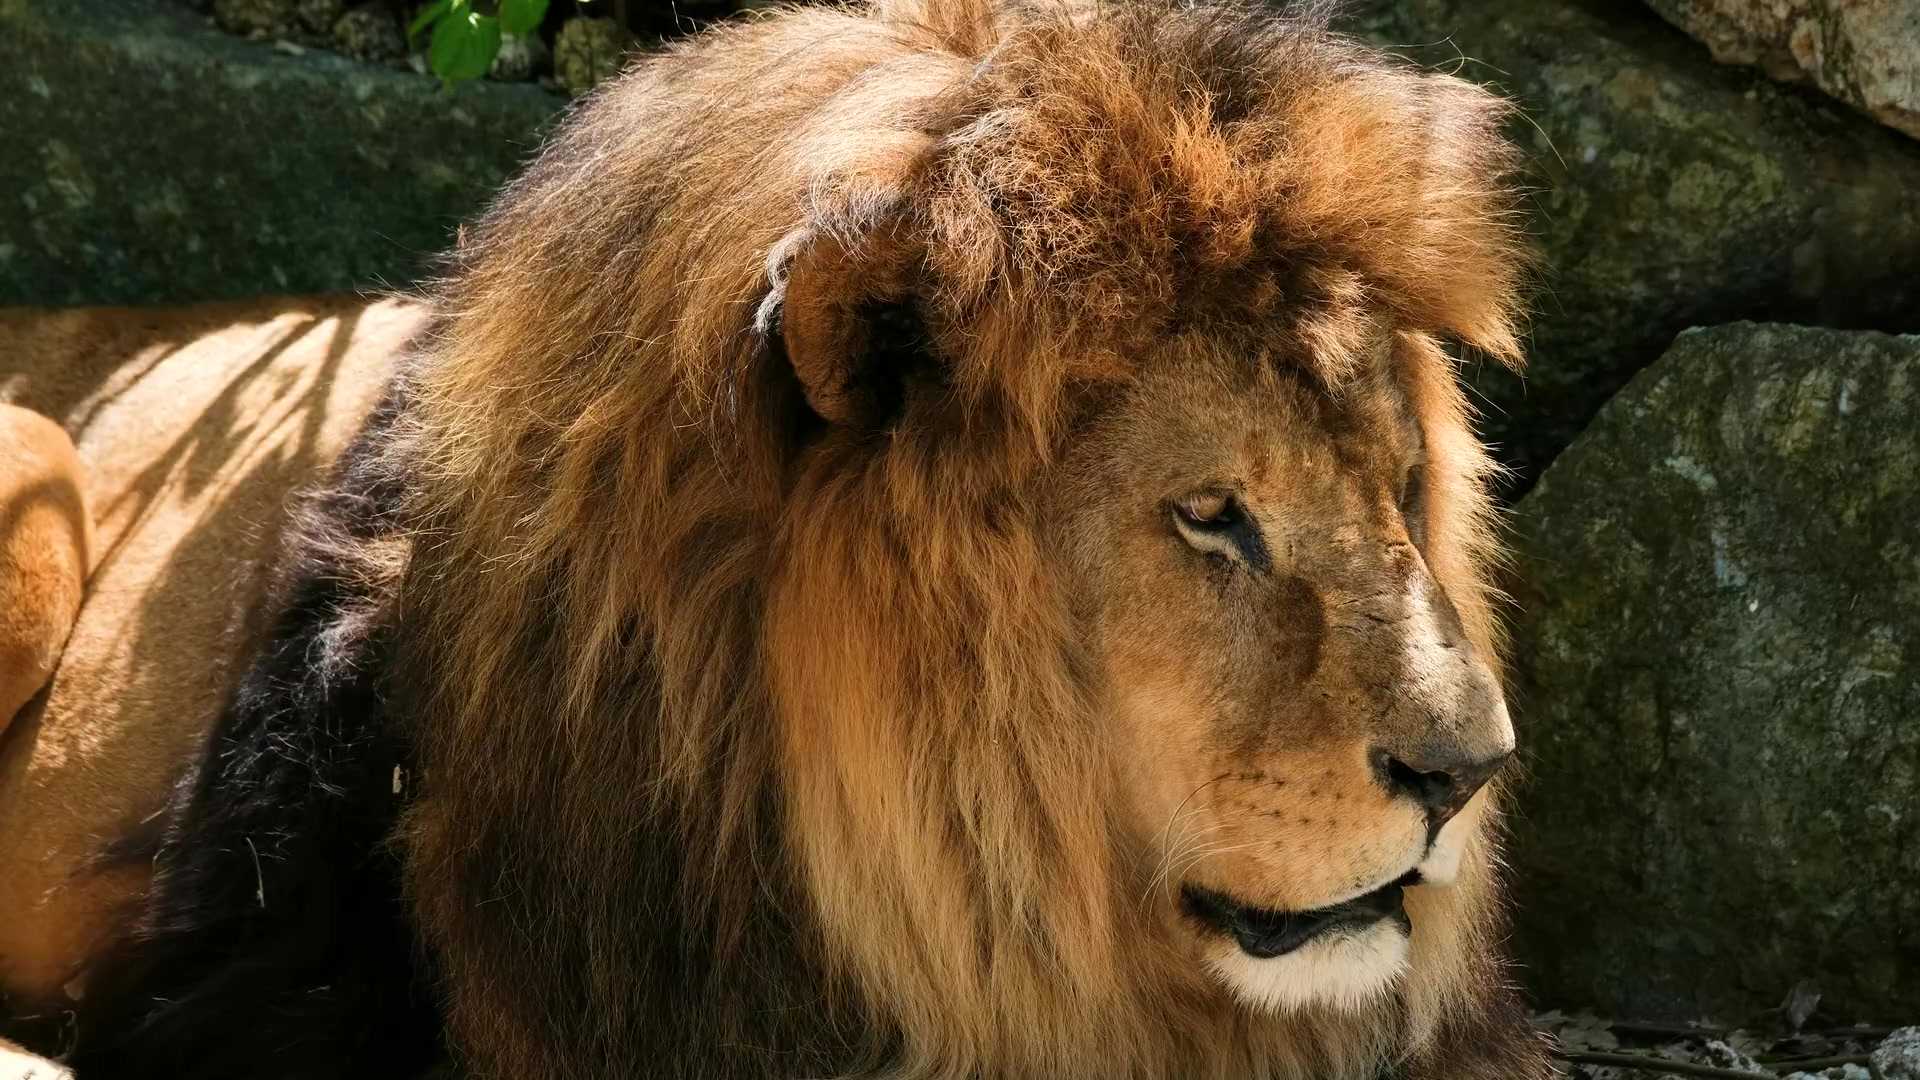
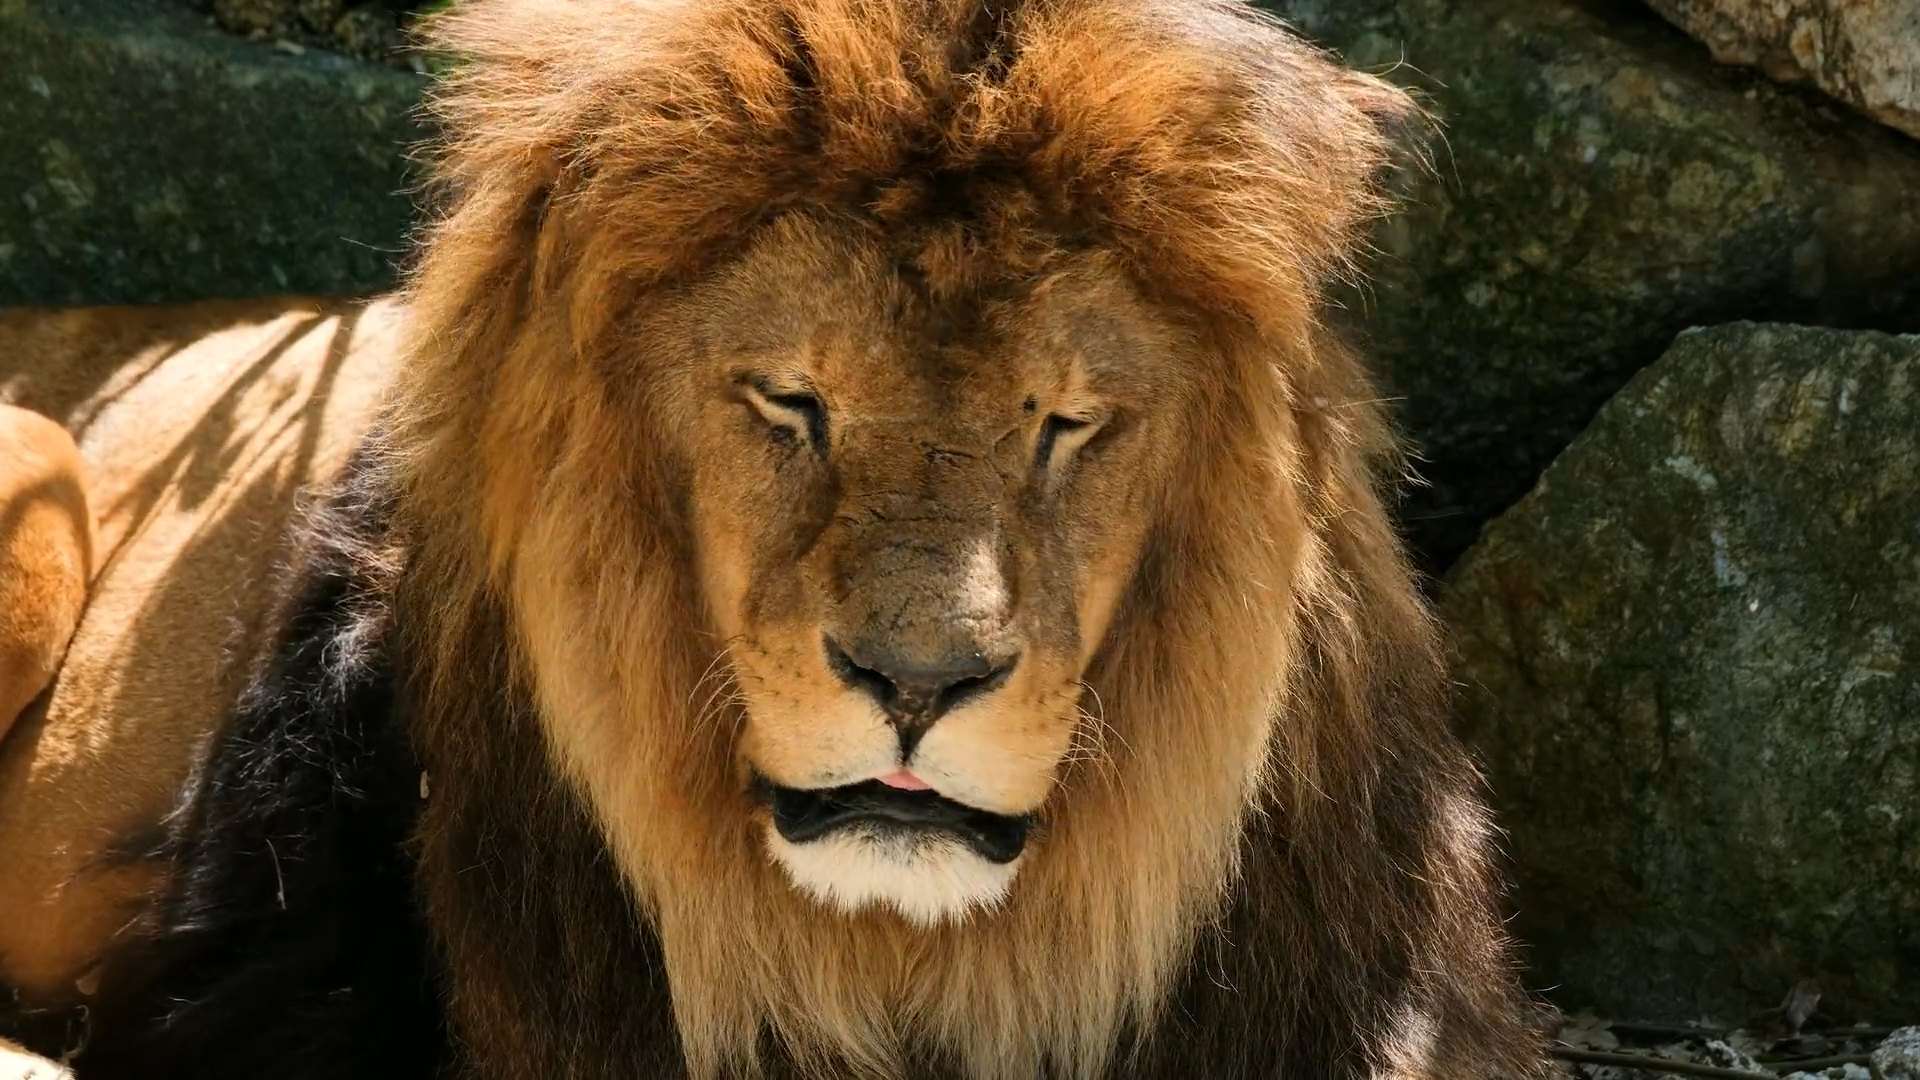
Home hero: lion in frame, phone layout no longer covers the film
- Lion clip mirrored and started at 3s (poster is that frame), so his face
  sits right of the headline and his chin stays in shot on short screens
- Per-clip crops (pos / posM) keep each subject in view on portrait screens
- Phones and upright tablets: film fills the top and fades into the night,
  copy sits beneath it; film controls move under the header

diff --git a/src/lib/data/home.ts b/src/lib/data/home.ts
@@ -44,6 +44,12 @@ export type ReelClip = {
   hold?: number;
   /** A colour grade (a CSS filter) for a clip that reads flat. */
   grade?: string;
+  /** Where a landscape screen crops the frame (CSS object-position). */
+  pos?: string;
+  /** Where a portrait screen (a phone, an upright tablet) crops the frame. */
+  posM?: string;
+  /** Mirror the clip, to turn its subject away from the headline. */
+  flip?: boolean;
 };
 
 /**
@@ -65,6 +71,15 @@ export const reel: (ReelClip & { fallback?: ReelClip })[] = [
     alt: 'A male lion with a full golden mane turning his head in the sun',
     video: '/video/home/reel-safari-lion.mp4',
     img: '/images/home/reel-safari-lion.jpg',
+    // He turns from profile to face the camera, his face settling left of
+    // centre, under the headline. Mirrored and started at 3s (the poster is
+    // that frame), he looks out from the right, clear of the words, and the
+    // phone crop holds his whole face (8 Nov). The crop is in the source's
+    // own coordinates, before the mirror: 32% is 68% on screen.
+    start: 3,
+    flip: true,
+    pos: '50% 45%',
+    posM: '32% 50%',
     fallback: {
       place: 'On safari',
       alt: 'Two giraffes on golden grassland in the afternoon sun, mountains beyond',
@@ -77,6 +92,7 @@ export const reel: (ReelClip & { fallback?: ReelClip })[] = [
     alt: 'A red mountain train crossing an alpine meadow above the lakes of the Bernese Oberland',
     video: '/video/home/reel-swiss-rail.mp4',
     img: '/images/home/reel-swiss-rail.jpg',
+    posM: '68% 50%',
     fallback: {
       place: 'Switzerland, by rail',
       alt: 'A red train curving along an alpine lake beneath low cloud in the Swiss Alps',
@@ -90,6 +106,7 @@ export const reel: (ReelClip & { fallback?: ReelClip })[] = [
     // Pexels 12315324 (Boris Ivas), from 0:14; colour lifted in the cut.
     video: '/video/home/reel-amalfi-coast.mp4',
     img: '/images/home/reel-amalfi-coast.jpg',
+    posM: '86% 50%',
     fallback: {
       place: 'Amalfi Coast, Italy',
       alt: 'A sailing boat at anchor off the Amalfi Coast, a cliffside town and the coast fading into haze behind',
@@ -103,6 +120,7 @@ export const reel: (ReelClip & { fallback?: ReelClip })[] = [
     // Pexels 16114872 (8 Nov), slowed a touch to the reel's calm pace.
     video: '/video/home/reel-hvar-harbour.mp4',
     img: '/images/home/reel-hvar-harbour.jpg',
+    posM: '41% 50%',
     fallback: {
       place: 'The Adriatic',
       alt: 'Sveti Stefan, a walled island village on the Adriatic coast of Montenegro, a catamaran at anchor',

diff --git a/src/components/home/home-fixes.css b/src/components/home/home-fixes.css
@@ -60,6 +60,67 @@
     linear-gradient(180deg, rgb(8 20 28 / 0.45) 0%, rgb(8 20 28 / 0) 22%);
 }
 
+/* Each clip crops on its own subject (the lion's face sits right of centre and
+   low in the frame), with a second crop for an upright screen (8 Nov). */
+.hc .hc-hero .hv .fill {
+  object-position: var(--pos, center);
+}
+.hc .hc-hero .hv.flip .fill {
+  transform: scaleX(-1);
+}
+@media (max-aspect-ratio: 1/1) {
+  .hc .hc-hero .hv .fill {
+    object-position: var(--pos-m, var(--pos, center));
+  }
+}
+
+/* On a phone or an upright tablet the words no longer sit on the film's
+   subject: the film fills the top of the screen and fades into the night, and
+   the copy sits beneath it, its headline just overlapping the fade (8 Nov).
+   The copy ends 5.25rem up, clear of "Connect with our team"; the film ends
+   about 2.5rem below the copy's top (it is ~20rem tall on a phone, where the
+   buttons stack, and ~16rem on a tablet). */
+@media (max-width: 900px) and (orientation: portrait) {
+  .hc .hc-hero {
+    --film-end: calc(100% - 19rem);
+  }
+  .hc .hc-hero .hv {
+    inset: 0 0 auto;
+    height: max(45%, var(--film-end));
+  }
+  .hc .hc-hero .shade {
+    background: linear-gradient(
+      180deg,
+      rgb(8 20 28 / 0.5) 0%,
+      rgb(8 20 28 / 0) 7.5rem,
+      rgb(8 20 28 / 0) calc(max(45%, var(--film-end)) - 6rem),
+      var(--night) max(45%, var(--film-end))
+    );
+  }
+  .hc .hc-hero .copy.left {
+    inset: auto var(--gut) 5.25rem;
+    width: auto;
+  }
+  /* The film's controls move up under the header, clear of the buttons. */
+  .hc .hc-hero .vctl {
+    bottom: auto;
+    top: calc(var(--nav-h) + 0.75rem);
+  }
+}
+@media (max-width: 600px) {
+  .hc .hc-hero {
+    --film-end: calc(100% - 22rem);
+  }
+  .hc .hc-hero .copy.left h1 {
+    font-size: clamp(2.5rem, 11vw, 2.875rem);
+    margin-bottom: 1rem;
+  }
+  .hc .hc-hero .copy.left .standfirst {
+    font-size: 1.0625rem;
+    margin-bottom: 1.5rem;
+  }
+}
+
 /* -- 02 Philosophy: centered between two short blue rules ----------------- */
 /* One full screen under the solid header, the statement at its centre. */
 .hc .hc-intro {

diff --git a/src/components/home/HomeHero.tsx b/src/components/home/HomeHero.tsx
@@ -1,6 +1,6 @@
 'use client';
 
-import { useEffect, useRef, useState } from 'react';
+import { useEffect, useRef, useState, type CSSProperties } from 'react';
 import Image from 'next/image';
 import Link from 'next/link';
 import { useReducedMotion } from 'motion/react';
@@ -80,7 +80,14 @@ export function HomeHero({ reel }: { reel: ReelClip[] }) {
       {reel.map((clip, i) => (
         <div
           key={clip.video ?? clip.img}
-          className={`hv fill ${i === current ? 'on' : ''} ${playing ? '' : 'held'}`}
+          className={`hv fill ${i === current ? 'on' : ''} ${playing ? '' : 'held'} ${clip.flip ? 'flip' : ''}`}
+          // Each clip's own crop, so its subject stays in frame (home-fixes.css).
+          style={
+            {
+              '--pos': clip.pos ?? 'center',
+              '--pos-m': clip.posM ?? clip.pos ?? 'center',
+            } as CSSProperties
+          }
           aria-hidden
         >
           <Image
